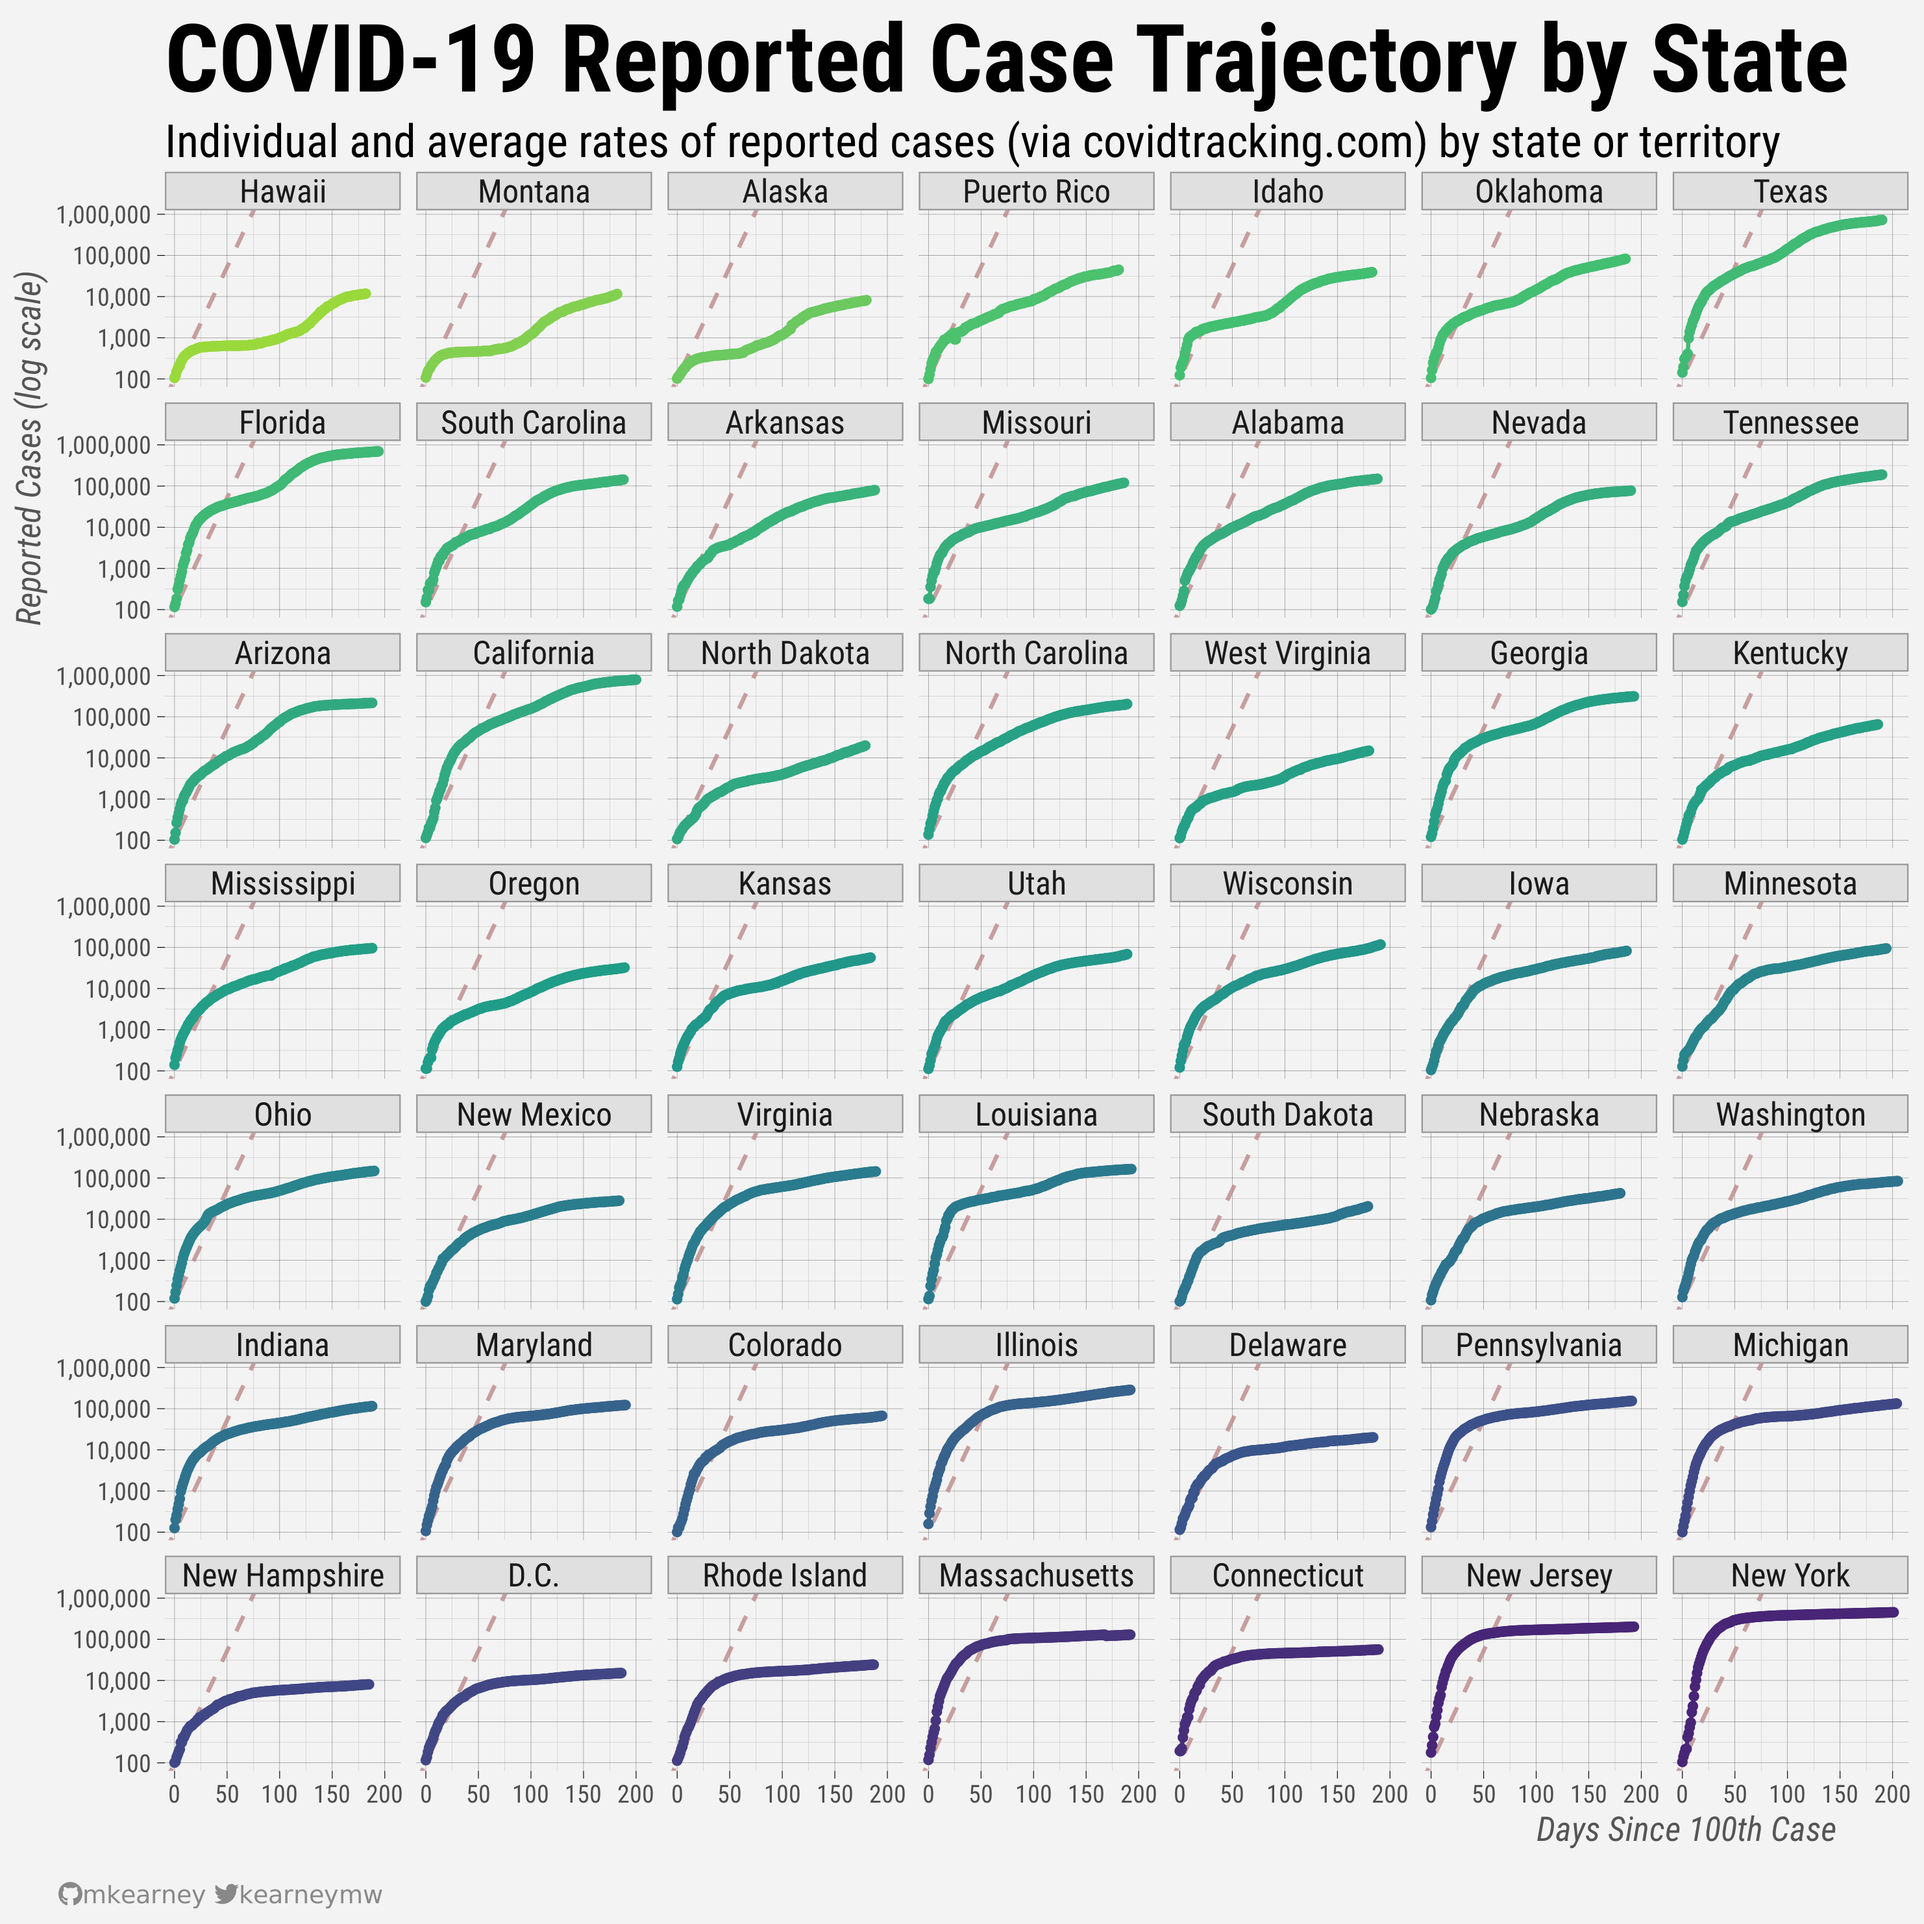
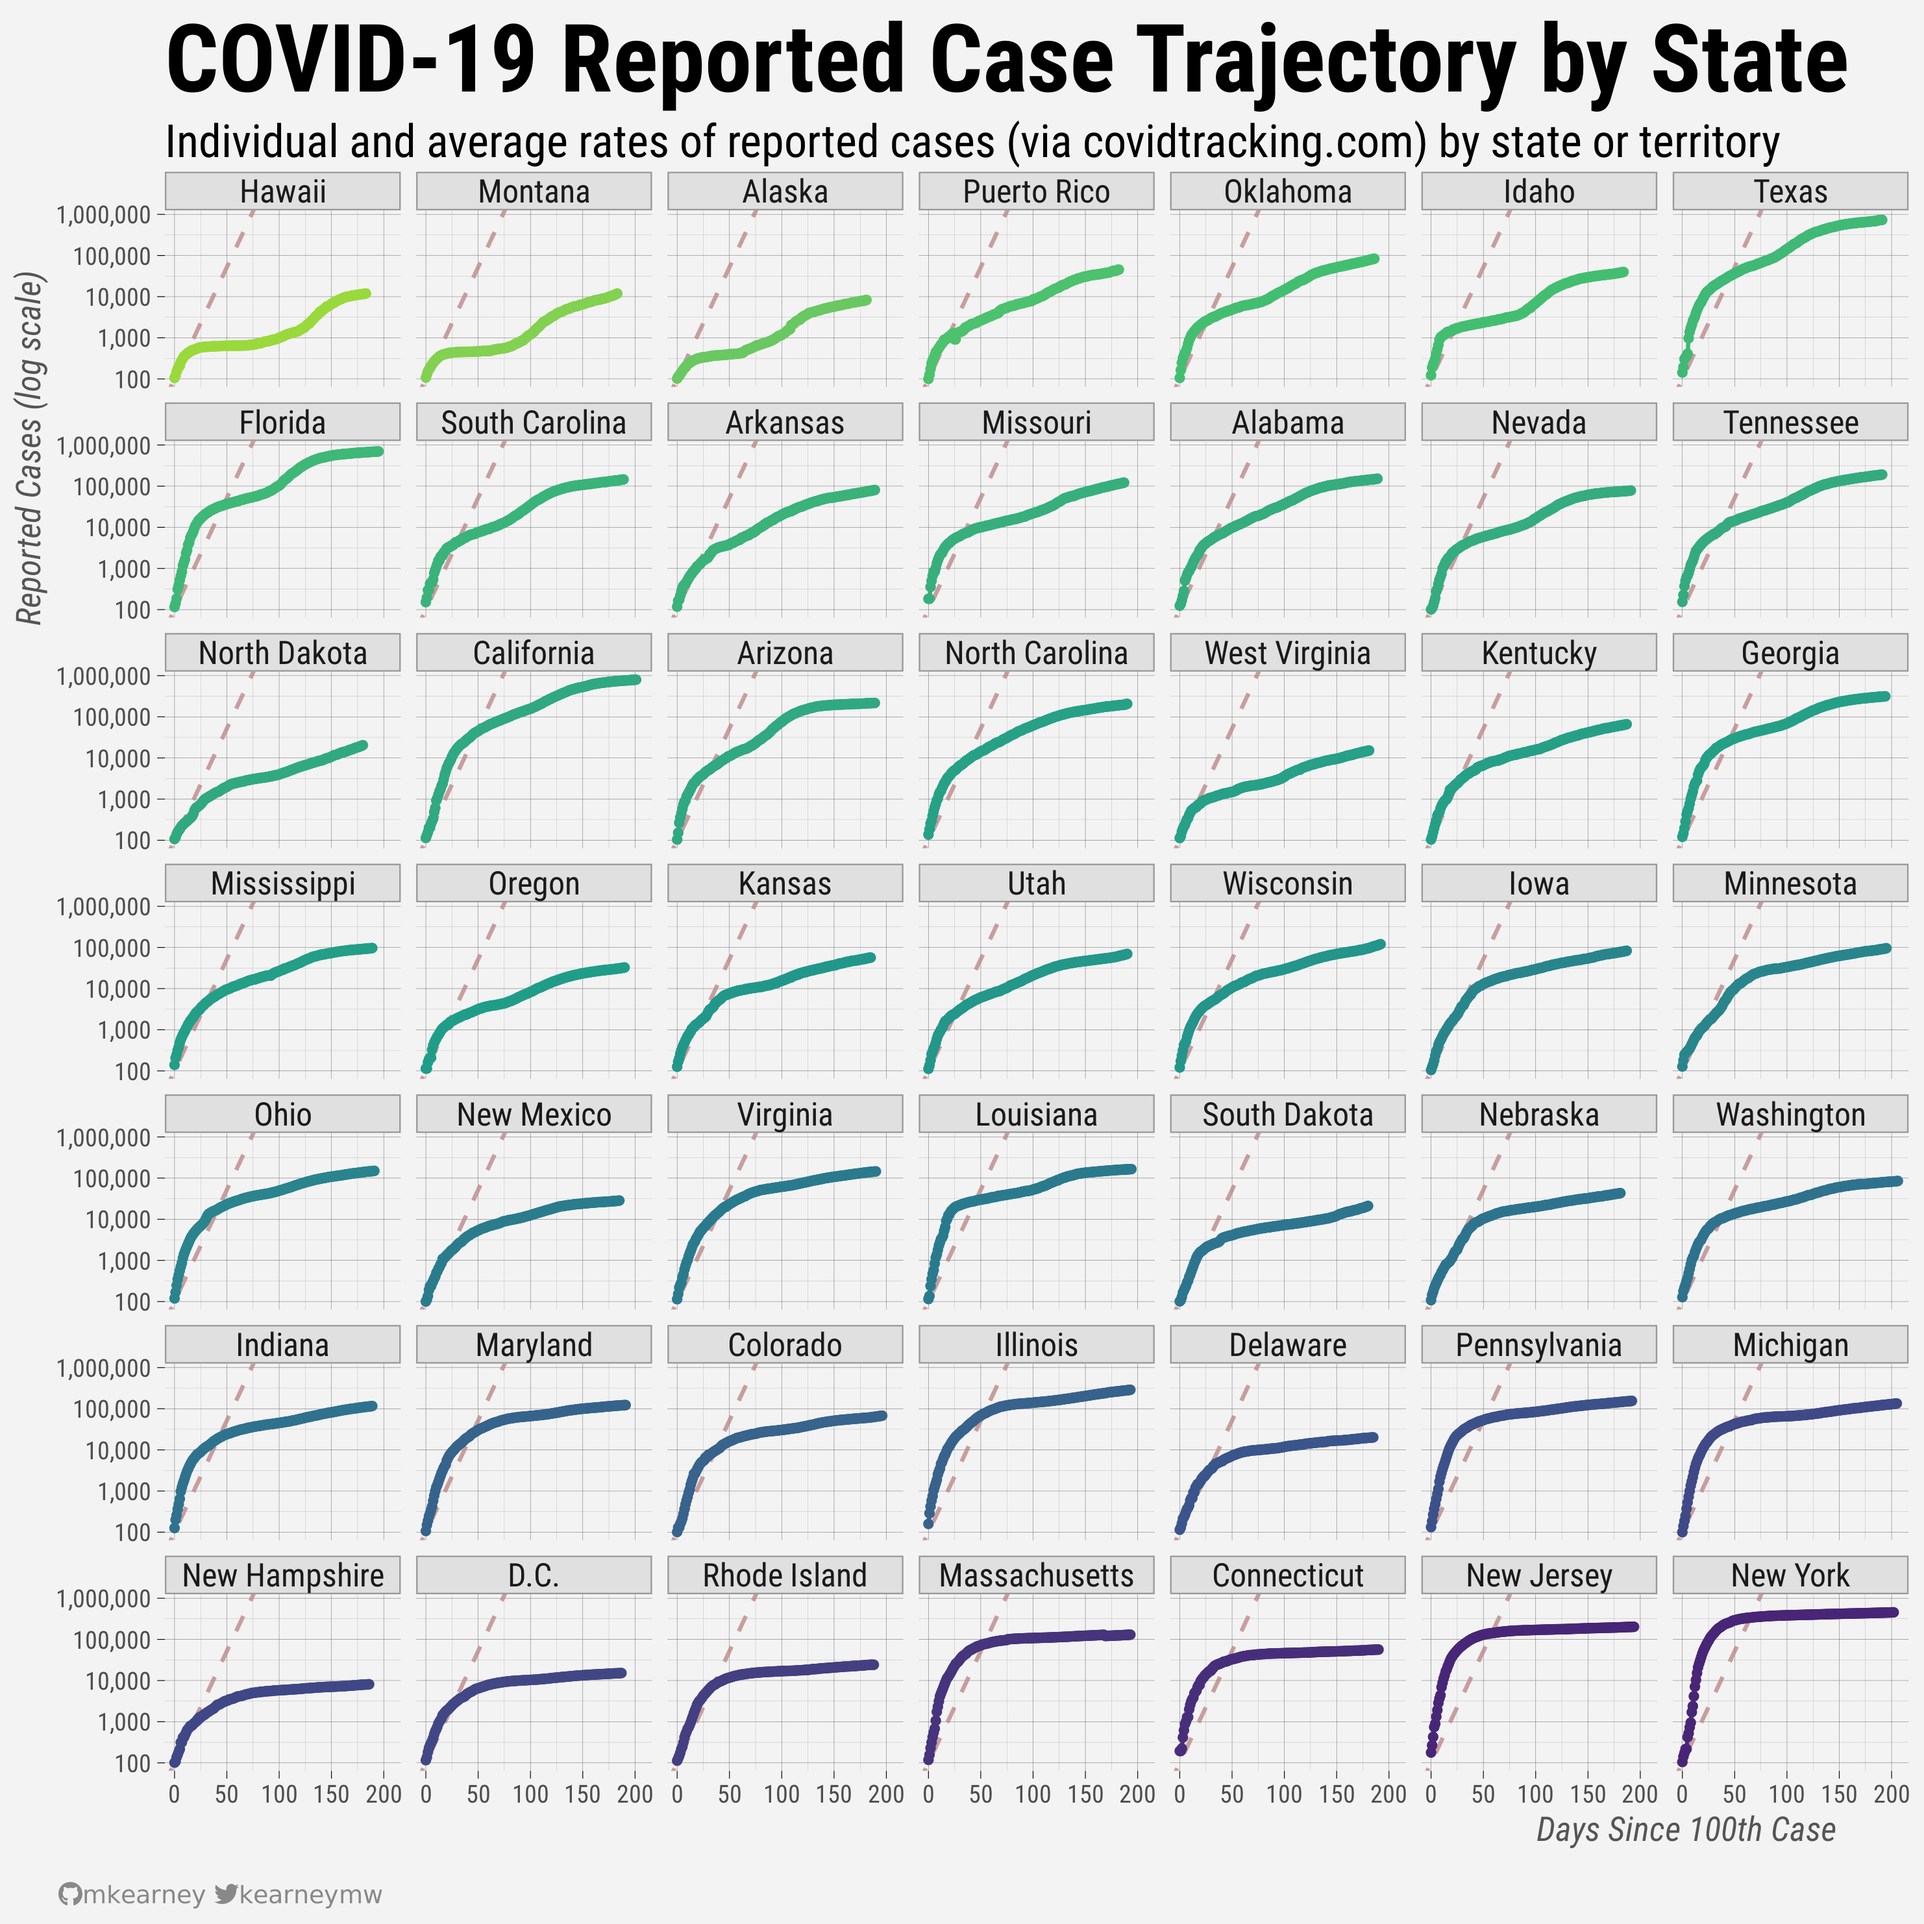
daily cron update

diff --git a/README.md b/README.md
@@ -40,7 +40,7 @@ grouped by similar endpoints and included below.
     #> # A tibble: 1 x 25
     #>   date       states positive negative pending hospitalized_cu… hospitalized_cu…
     #>   <date>      <int>    <int>    <int>   <int>            <int>            <int>
-    #> 1 2020-09-25     56  6997437 89096343   10905            29769           402171
+    #> 1 2020-09-26     56  7045170 89982483   11183            29554           403325
     #> # … with 18 more variables: in_icu_currently <int>, in_icu_cumulative <int>,
     #> #   on_ventilator_currently <int>, on_ventilator_cumulative <int>,
     #> #   recovered <int>, date_checked <dttm>, death <int>, hospitalized <int>,
@@ -55,20 +55,20 @@ grouped by similar endpoints and included below.
     
     ``` r
     covid19_us_daily()
-    #> # A tibble: 248 x 25
+    #> # A tibble: 249 x 25
     #>    date       states positive negative pending hospitalized_cu… hospitalized_cu…
     #>    <date>      <int>    <int>    <int>   <int>            <int>            <int>
-    #>  1 2020-09-25     56  6997437 89096343   10905            29769           402171
-    #>  2 2020-09-24     56  6941911 88239824   12008            30043           400840
-    #>  3 2020-09-23     56  6898139 87416375   10535            29905           399252
-    #>  4 2020-09-22     56  6859572 86615497    7999            29459           397801
-    #>  5 2020-09-21     56  6810133 85942856   13241            28755           396355
-    #>  6 2020-09-20     56  6770661 85303584   13192            28608           395215
-    #>  7 2020-09-19     56  6734366 84512983   13217            29035           394699
-    #>  8 2020-09-18     56  6688827 83566093   11805            29501           393632
-    #>  9 2020-09-17     56  6641341 82709952   11768            29900           392173
-    #> 10 2020-09-16     56  6597783 81976741   10587            30278           390624
-    #> # … with 238 more rows, and 18 more variables: in_icu_currently <int>,
+    #>  1 2020-09-26     56  7045170 89982483   11183            29554           403325
+    #>  2 2020-09-25     56  6997437 89096343   10905            29769           402171
+    #>  3 2020-09-24     56  6941911 88239824   12008            30043           400840
+    #>  4 2020-09-23     56  6898139 87416375   10535            29905           399252
+    #>  5 2020-09-22     56  6859572 86615497    7999            29459           397801
+    #>  6 2020-09-21     56  6810133 85942856   13241            28755           396355
+    #>  7 2020-09-20     56  6770661 85303584   13192            28608           395215
+    #>  8 2020-09-19     56  6734366 84512983   13217            29035           394699
+    #>  9 2020-09-18     56  6688827 83566093   11805            29501           393632
+    #> 10 2020-09-17     56  6641341 82709952   11768            29900           392173
+    #> # … with 239 more rows, and 18 more variables: in_icu_currently <int>,
     #> #   in_icu_cumulative <int>, on_ventilator_currently <int>,
     #> #   on_ventilator_cumulative <int>, recovered <int>, date_checked <dttm>,
     #> #   death <int>, hospitalized <int>, total_test_results <int>,
@@ -86,67 +86,67 @@ grouped by similar endpoints and included below.
     ``` r
     covid19_states()
     #> $date
-    #> [1] 20200925
+    #> [1] 20200926
     #> 
     #> $state
-    #> [1] "IN"
+    #> [1] "KS"
     #> 
     #> $positive
-    #> [1] 115407
+    #> [1] 56592
     #> 
     #> $negative
-    #> [1] 1226055
+    #> [1] 446178
     #> 
     #> $pending
     #> NULL
     #> 
     #> $totalTestResults
-    #> [1] 1341462
+    #> [1] 502770
     #> 
     #> $hospitalizedCurrently
-    #> [1] 856
+    #> [1] 343
     #> 
     #> $hospitalizedCumulative
-    #> [1] 12463
+    #> [1] 2816
     #> 
     #> $inIcuCurrently
-    #> [1] 258
+    #> [1] 121
     #> 
     #> $inIcuCumulative
-    #> [1] 2484
+    #> [1] 768
     #> 
     #> $onVentilatorCurrently
-    #> [1] 83
+    #> [1] 34
     #> 
     #> $onVentilatorCumulative
-    #> NULL
+    #> [1] 250
     #> 
     #> $recovered
-    #> [1] 91866
+    #> [1] 2039
     #> 
     #> $dataQualityGrade
     #> [1] "A+"
     #> 
     #> $lastUpdateEt
-    #> [1] "9/24/2020 23:59"
+    #> [1] "9/25/2020 10:00"
     #> 
     #> $dateModified
-    #> [1] "2020-09-24T23:59:00Z"
+    #> [1] "2020-09-25T10:00:00Z"
     #> 
     #> $checkTimeEt
-    #> [1] "09/24 19:59"
+    #> [1] "09/25 06:00"
     #> 
     #> $death
-    #> [1] 3566
+    #> [1] 632
     #> 
     #> $hospitalized
-    #> [1] 12463
+    #> [1] 2816
     #> 
     #> $dateChecked
-    #> [1] "2020-09-24T23:59:00Z"
+    #> [1] "2020-09-25T10:00:00Z"
     #> 
     #> $totalTestsViral
-    #> [1] 1963006
+    #> NULL
     #> 
     #> $positiveTestsViral
     #> NULL
@@ -158,16 +158,16 @@ grouped by similar endpoints and included below.
     #> NULL
     #> 
     #> $deathConfirmed
-    #> [1] 3340
+    #> NULL
     #> 
     #> $deathProbable
-    #> [1] 226
+    #> NULL
     #> 
     #> $totalTestEncountersViral
     #> NULL
     #> 
     #> $totalTestsPeopleViral
-    #> [1] 1341462
+    #> [1] 502770
     #> 
     #> $totalTestsAntibody
     #> NULL
@@ -200,34 +200,34 @@ grouped by similar endpoints and included below.
     #> NULL
     #> 
     #> $fips
-    #> [1] "18"
+    #> [1] "20"
     #> 
     #> $positiveIncrease
-    #> [1] 1171
+    #> [1] 0
     #> 
     #> $negativeIncrease
-    #> [1] 8683
+    #> [1] 0
     #> 
     #> $total
-    #> [1] 1341462
+    #> [1] 502770
     #> 
     #> $totalTestResultsSource
     #> [1] "posNeg"
     #> 
     #> $totalTestResultsIncrease
-    #> [1] 9854
+    #> [1] 0
     #> 
     #> $posNeg
-    #> [1] 1341462
+    #> [1] 502770
     #> 
     #> $deathIncrease
-    #> [1] 18
+    #> [1] 0
     #> 
     #> $hospitalizedIncrease
-    #> [1] 75
+    #> [1] 0
     #> 
     #> $hash
-    #> [1] "5dcfed6931f9331d3b127a4bbfbf2916180d7ab8"
+    #> [1] "1468f023cf5cebe6e0d2f0752a5b054eecc06b87"
     #> 
     #> $commercialScore
     #> [1] 0
@@ -254,20 +254,20 @@ grouped by similar endpoints and included below.
     
     ``` r
     covid19_states_daily()
-    #> # A tibble: 11,522 x 54
+    #> # A tibble: 11,578 x 54
     #>    date       state positive negative pending total_test_resu… hospitalized_cu…
     #>    <date>     <chr>    <int>    <int>   <int>            <int>            <int>
-    #>  1 2020-09-25 AK        8202   433130      NA           441332               43
-    #>  2 2020-09-25 AL      150658   963364      NA          1097595              718
-    #>  3 2020-09-25 AR       79946   848822      NA           926294              478
-    #>  4 2020-09-25 AS           0     1571      NA             1571               NA
-    #>  5 2020-09-25 AZ      216367  1211657      NA          1423603              521
-    #>  6 2020-09-25 CA      794040 13258207      NA         14052247             3307
-    #>  7 2020-09-25 CO       67217   795588      NA          1260861              258
-    #>  8 2020-09-25 CT       56587  1462564      NA          1519151               76
-    #>  9 2020-09-25 DC       15163   358423      NA           373586              101
-    #> 10 2020-09-25 DE       20085   259289      NA           279374               53
-    #> # … with 11,512 more rows, and 47 more variables:
+    #>  1 2020-09-26 AK        8315   434554      NA           442869               43
+    #>  2 2020-09-26 AL      151591   970048      NA          1104932              709
+    #>  3 2020-09-26 AR       80755   855635      NA           933895              447
+    #>  4 2020-09-26 AS           0     1571      NA             1571               NA
+    #>  5 2020-09-26 AZ      216826  1221851      NA          1434227              509
+    #>  6 2020-09-26 CA      798237 13384493      NA         14182730             3203
+    #>  7 2020-09-26 CO       67926   804806      NA          1277613              248
+    #>  8 2020-09-26 CT       56587  1462564      NA          1519151               76
+    #>  9 2020-09-26 DC       15215   362764      NA           377979              101
+    #> 10 2020-09-26 DE       20156   260243      NA           280399               57
+    #> # … with 11,568 more rows, and 47 more variables:
     #> #   hospitalized_cumulative <int>, in_icu_currently <int>,
     #> #   in_icu_cumulative <int>, on_ventilator_currently <int>,
     #> #   on_ventilator_cumulative <int>, recovered <int>, data_quality_grade <chr>,
